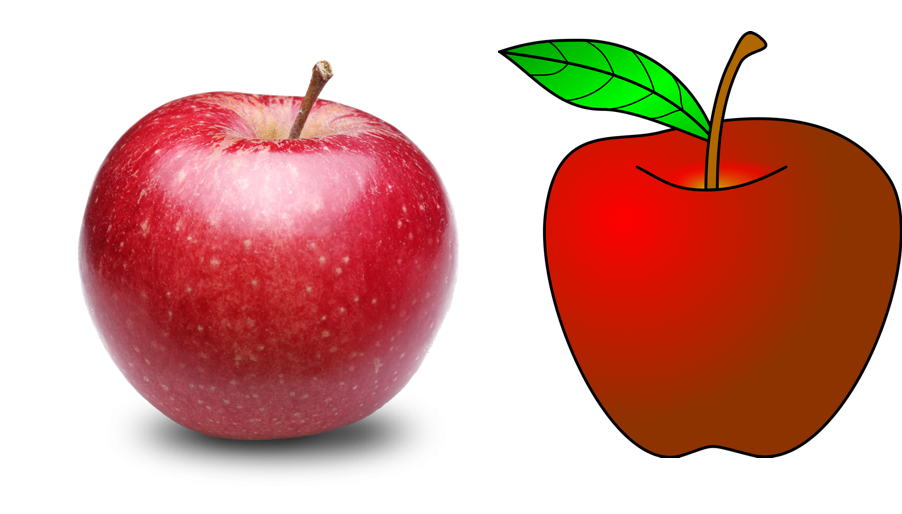
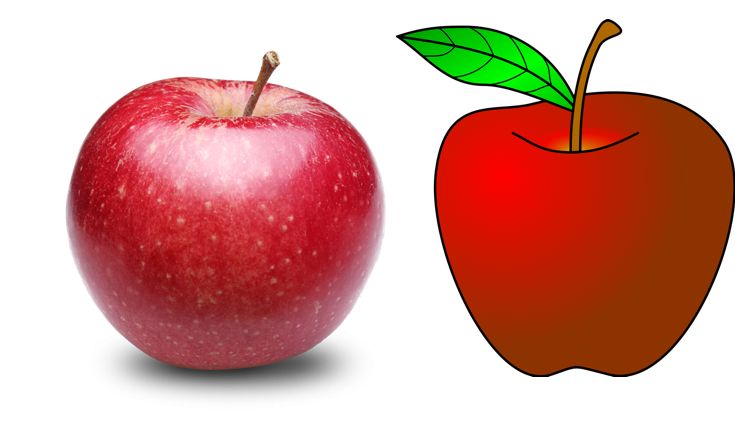
adsf

diff --git a/index.html b/index.html
@@ -80,7 +80,7 @@ SoftDev2 pd6
     <h3 id="blockchain"> Blockchain </h3>
   <p> The Blockchain is a ledger that belongs to everybody, living on everyone's computers. Every transaction of all time gets recorded in it. It's impossible to cheat since it's spread out so far. If you try something fishy, it won't sync up with the rest of the system. It is important to note that not one single entity owns the Blockchain and the code and rules are open source.</p>
   <h5> How Does It Work </h5>
-  <img src ="apples.png">
+  <img src ="apples.png" class="center">
 <p>Imagine an apple. If I have an apple and I give it to you, you now have an apple and now I don't. It was very simple. However, now consider a digital apple. If I want to give you a digital apple, who's to say that I still don't have that apple? Or that maybe I sent that same apple to three other people? This is what's known as the double-spending problem. That's where the Blockchain comes in, serving as a ledger that keeps track of all the Bitcoin in existence.</p>
   
 <h3 id="mining"> Mining </h3>
